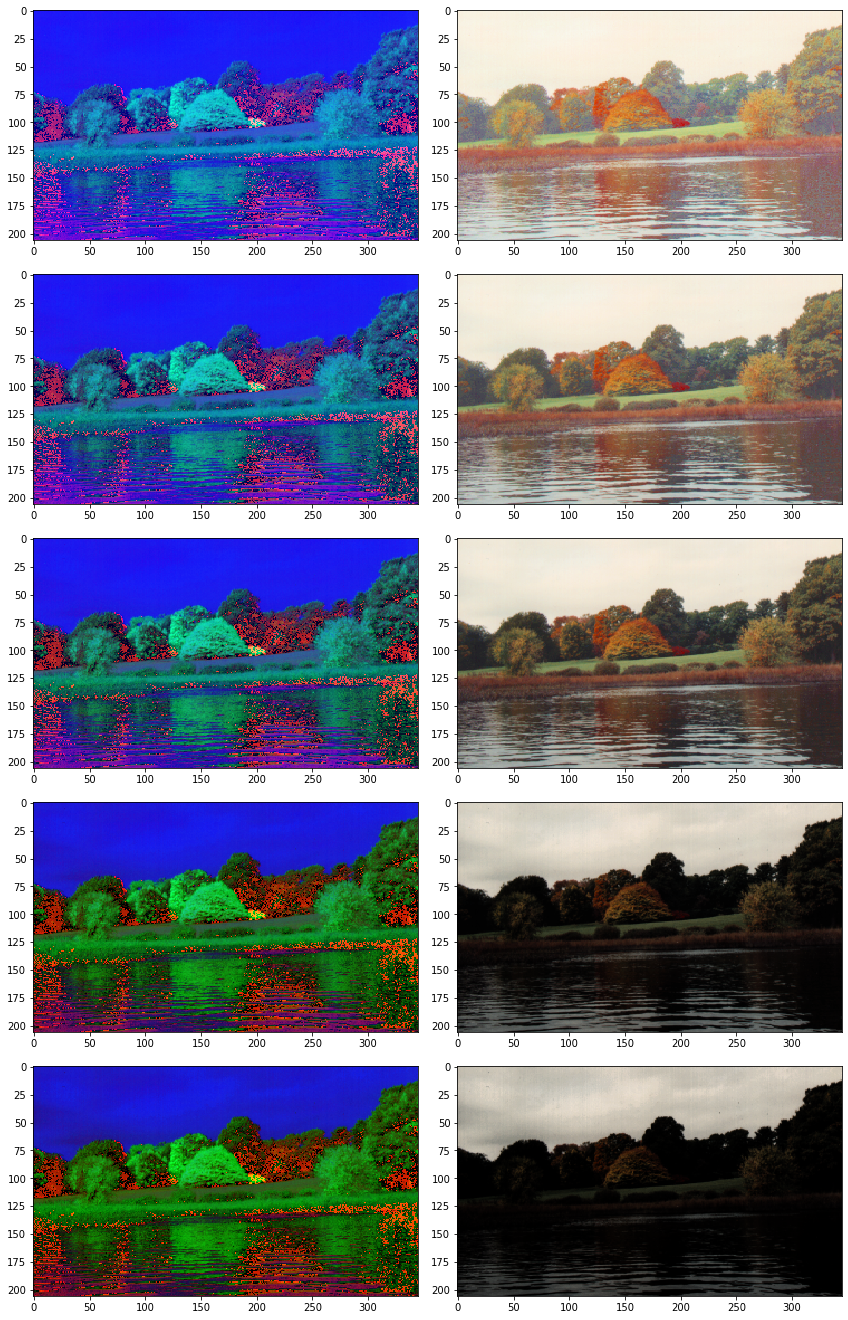
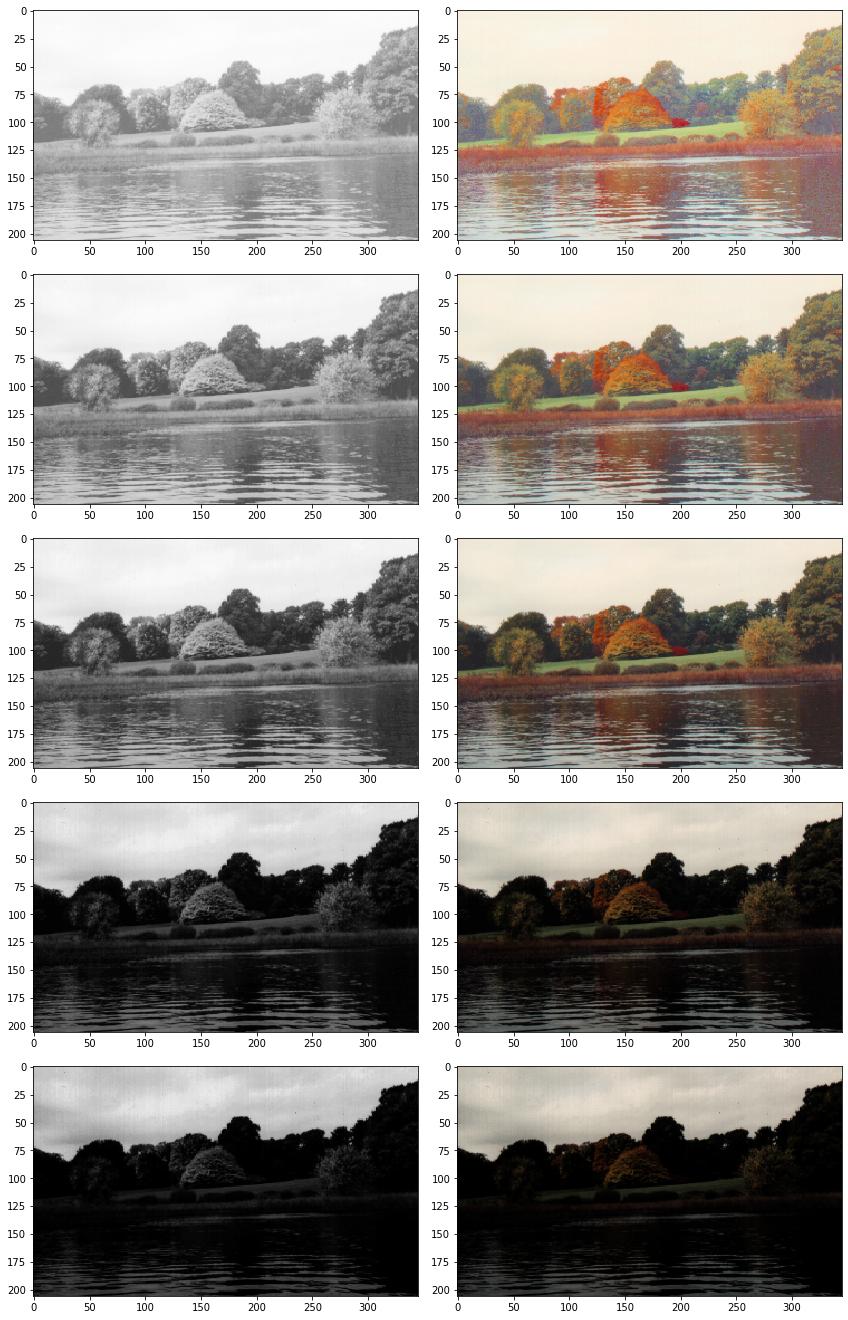
1

diff --git a/assignment2/1.py b/assignment2/1.py
@@ -20,10 +20,9 @@ imshow(gamma_transform(autumn, 0.3)) # gamma = [0.3, 0.5, 0.8, 2.0, 3.0]
 
 # 1.3
 hsv_img = rgb2hsv(autumn)
-imshow(hsv_img)
 value_img = hsv_img[:, :, 2]
 imshow(value_img)
 value_img_gamma = gamma_transform(value_img, 3.0) # gamma = [0.3, 0.5, 0.8, 2.0, 3.0]
 hsv_img[:, :, 2] = value_img_gamma
-imshow(hsv_img)
+imshow(value_img_gamma)
 imshow(hsv2rgb(hsv_img))
